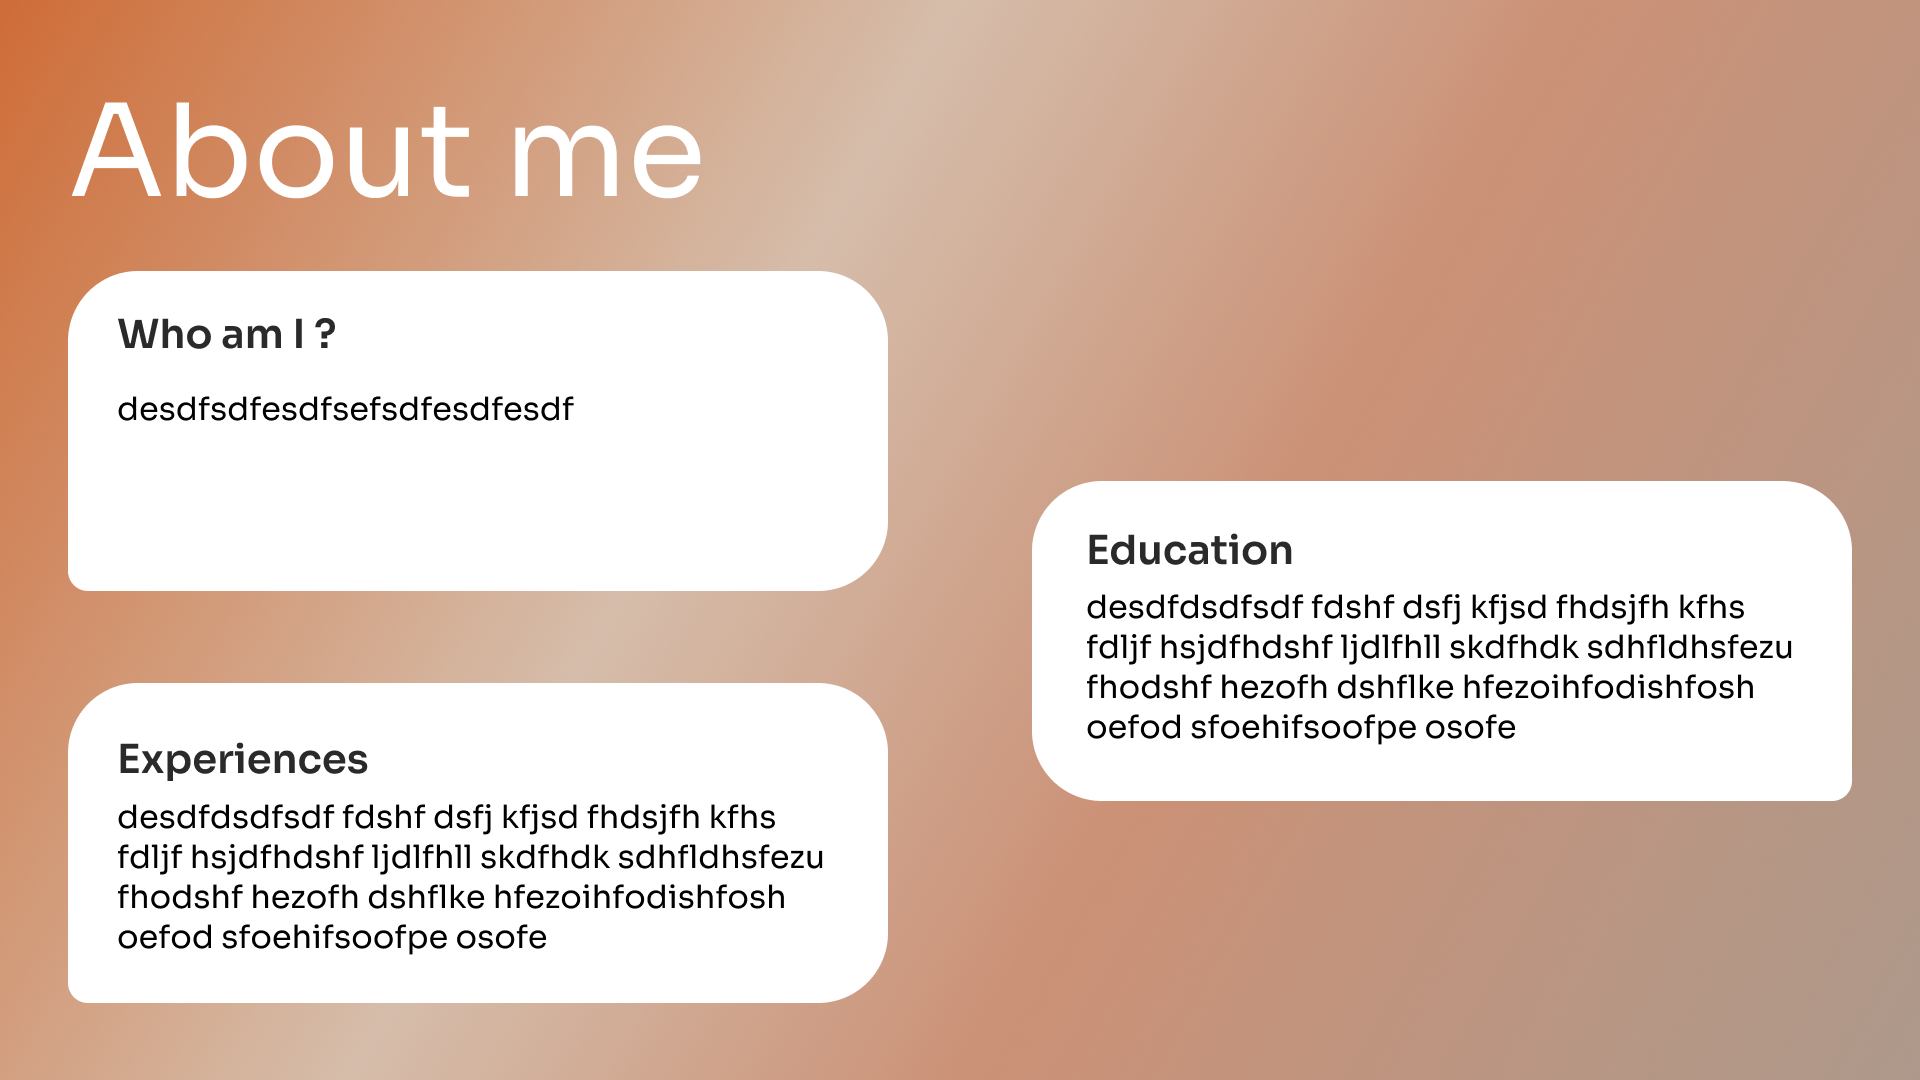
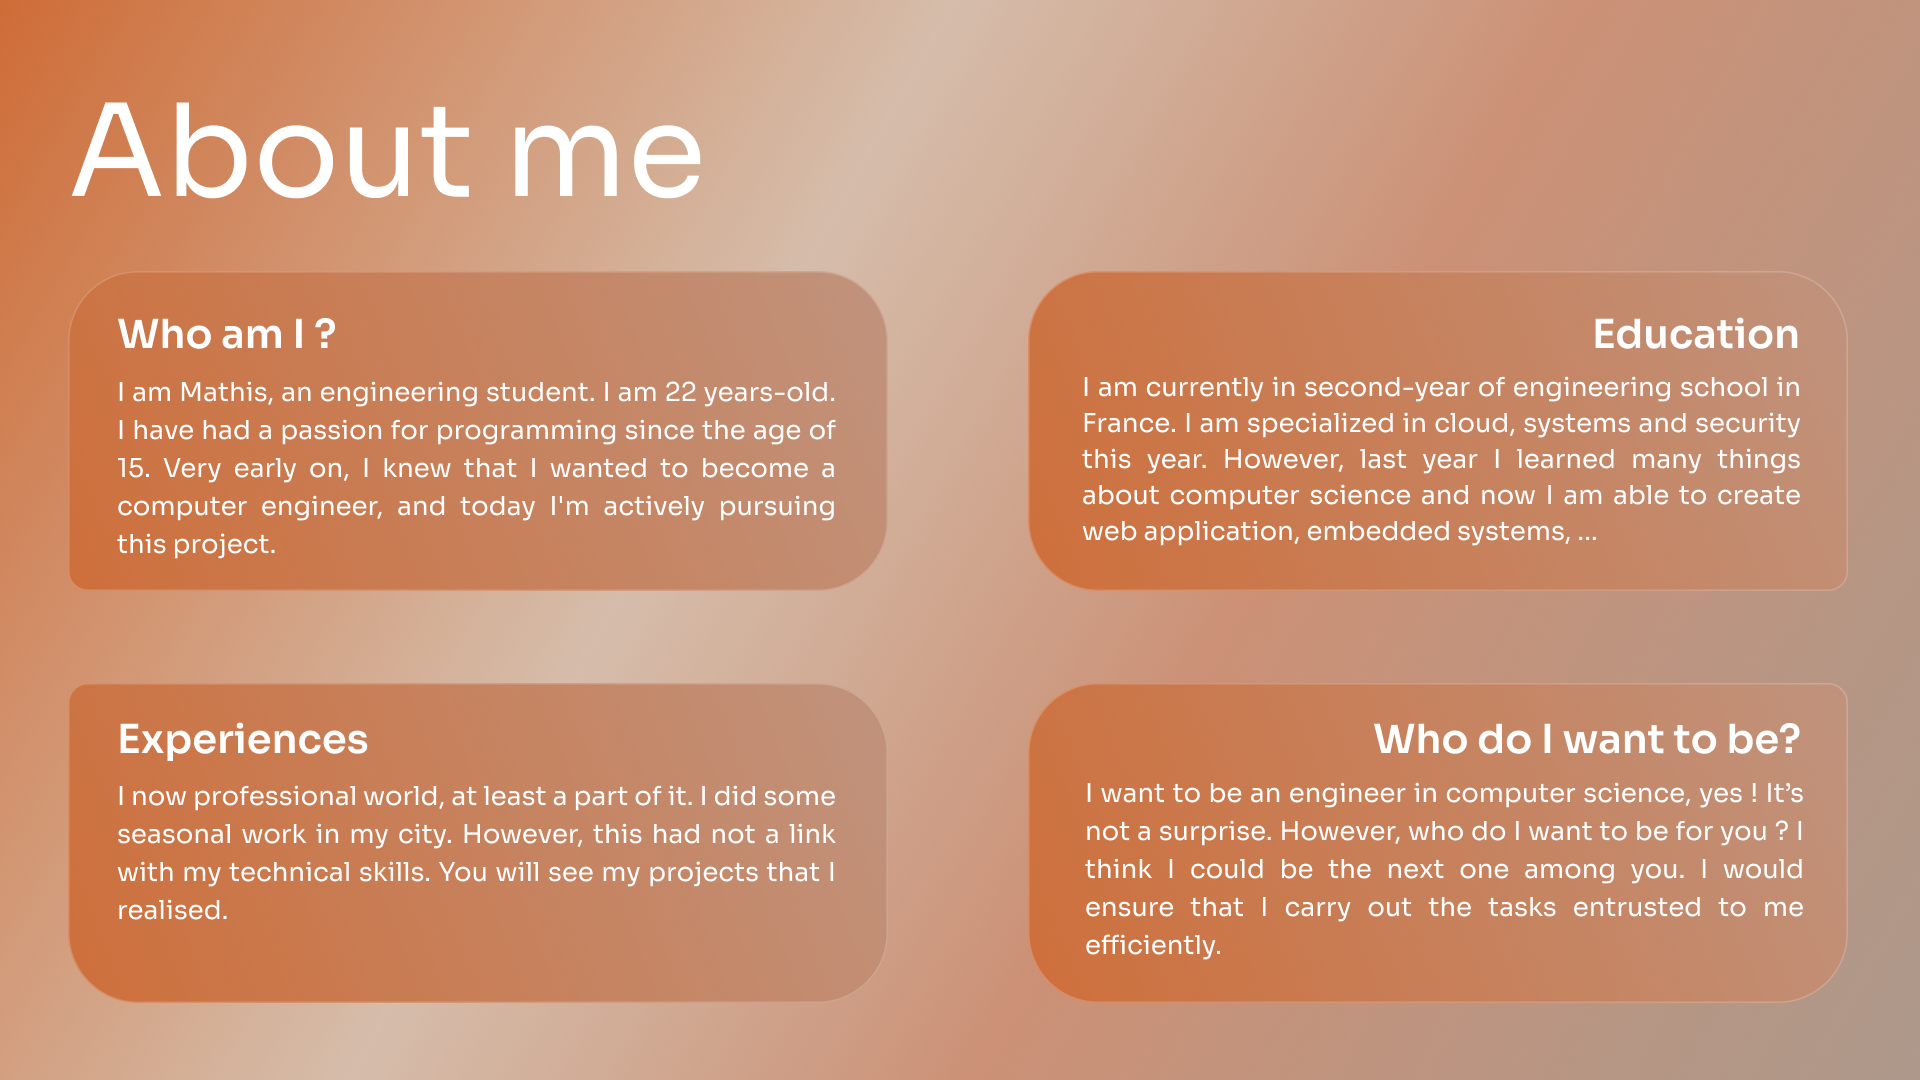
I updated the HTML file.

diff --git a/index.html b/index.html
@@ -44,15 +44,42 @@
                 <div class="about-columns">
                     <div class="about-left">
                         <div class="about-card about-1">
-
+                            <h3>Who am I ?</h3>
+                            <p>
+                                I am Mathis, an engineering student. I am 22 years-old. 
+                                I have had a passion for programming since the age of 15. 
+                                Very early on, I knew that I wanted to become a computer engineer, 
+                                and today I'm actively pursuing this project.
+                            </p>
                         </div>
                         <div class="about-card about-3">
-
+                            <h3>Experiences</h3>
+                            <p>
+                                I now professional world, at least a part of it. 
+                                I did some seasonal work in my city. 
+                                However, this had not a link with my technical skills. 
+                                You will see my projects that I realised.
+                            </p>
                         </div>
                     </div>
                     <div class="about-right">
                         <div class="about-card about-2">
-
+                            <h3>Education</h3>
+                            <p>
+                               I am currently in second-year of engineering school in France. 
+                               I am specialized in cloud, systems and security this year. 
+                               However, last year I learned many things about computer science and now 
+                               I am able to create web application, embedded systems, ... 
+                            </p>
+                        </div>
+                        <div class="about-card about-4">
+                            <h3>Who do I want to be ?</h3>
+                            <p>
+                                I want to be an engineer in computer science, yes ! It’s not a surprise. 
+                                However, who do I want to be for you ? 
+                                I think I could be the next one among you. 
+                                I would ensure that I carry out the tasks entrusted to me efficiently.
+                            </p>
                         </div>
                     </div>
                 </div>
@@ -67,12 +94,20 @@
                         <h3>Programming Languages</h3>
                         <div class="row-1">
                             <h5>Web Development</h5>
+                            <img src="" alt="">
+                            <img src="" alt="">
+                            <img src="" alt="">
+                            <img src="" alt="">
                         </div>
                         <div class="row-2">
                             <h5>Backend Development</h5>
+                            <img src="" alt="">
+                            <img src="" alt="">
                         </div>
                         <div class="row-3">
                             <h5>Database Management</h5>
+                            <img src="" alt="">
+                            <img src="" alt="">
                         </div>
                     </div>
                     <div class="skills-card col-2">
@@ -100,12 +135,32 @@
                         <div class="project-info">
                             <h3>Password Checker</h3>
                             <p>This project is a web application that allows users to check the strength of their passwords. It provides real-time feedback on password strength and suggests improvements.</p>
-                            <a href="https://github.com/yourusername/password-checker" target="_blank">View on GitHub</a>
+                            <a href="https://github.com/MathisDS15/Password-Checker">View on GitHub</a>
                         </div>
                     </div>
-                    <div class="project-card project-2"></div>
-                    <div class="project-card project-3"></div>
-                    <div class="project-card project-4"></div>
+                    <div class="project-card project-2">
+                        <img src="" alt="">
+                        <div class="project-info">
+                            <h3>Learn & Build for Web</h3>
+                            <p>Brief description of project 2.</p>
+                            <a href="#">View on GitHub</a>
+                    </div>
+                    <div class="project-card project-3">
+                        <img src="" alt="">
+                        <div class="project-info">
+                            <h3>Social media in PHP</h3>
+                            <p>Brief description of project 3.</p>
+                            <a href="#">View on GitHub</a>
+                        </div>
+                    </div>
+                    <div class="project-card project-4">
+                        <img src="" alt="">
+                        <div class="project-info">
+                            <h3>Meteo Station</h3>
+                            <p>Brief description of project 4.</p>
+                            <a href="#">View on GitHub</a>
+                        </div>
+                    </div>
                 </div>
             </div>
         </section>
